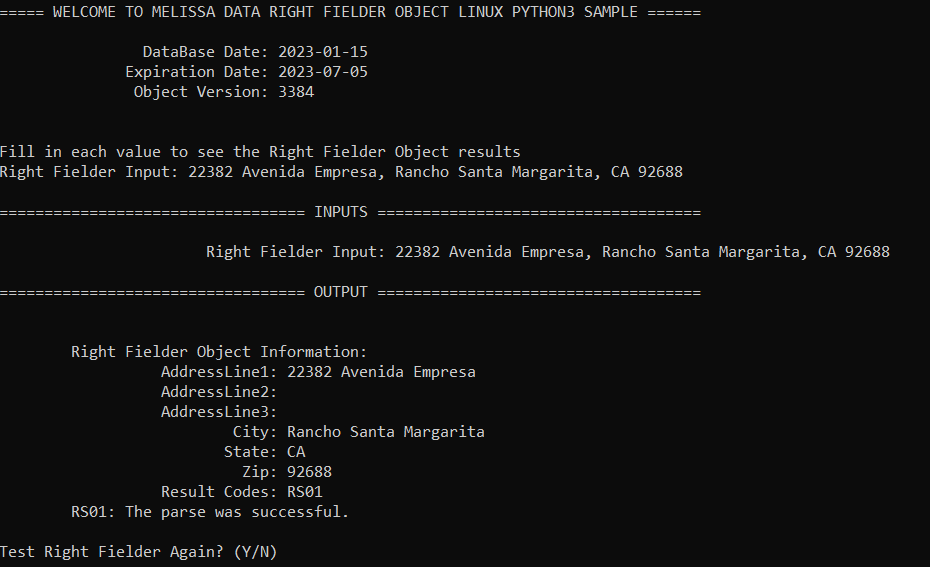
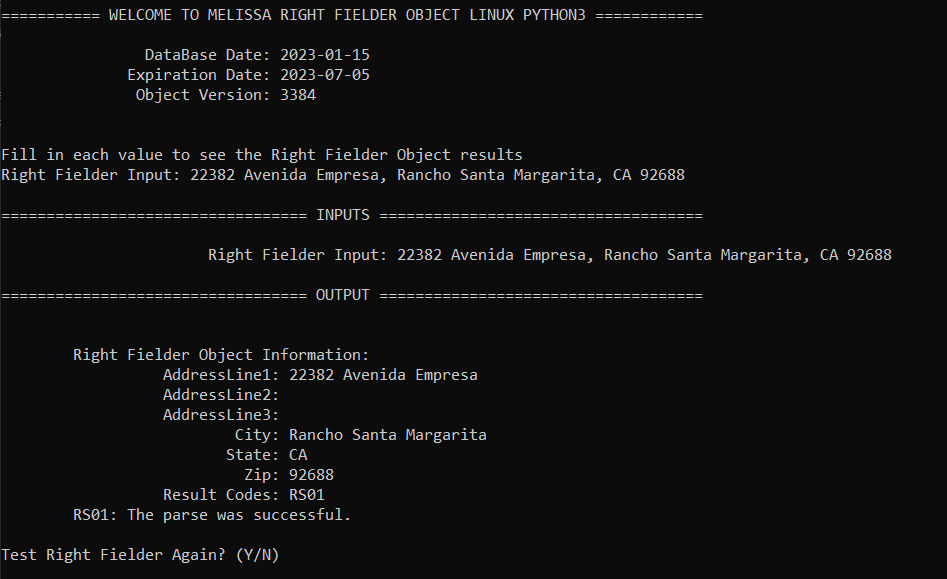
Commit Python3 code for Right Fielder Object with release notes

diff --git a/MelissaRightFielderObjectLinuxPython3/MelissaRightFielderObjectLinuxPython3.py b/MelissaRightFielderObjectLinuxPython3/MelissaRightFielderObjectLinuxPython3.py
@@ -31,7 +31,7 @@ class RightFielderObject:
         print(f"              Expiration Date: {self.md_right_fielder_obj.GetLicenseExpirationDate()}")
       
         """
-        This number should match with file properties of the Melissa Data Object binary file.
+        This number should match with file properties of the Melissa Object binary file.
         If TEST appears with the build number, there may be a license key issue.
         """
         print(f"               Object Version: {self.md_right_fielder_obj.GetBuildNumber()}\n")
@@ -40,7 +40,7 @@ class RightFielderObject:
     def execute_object_and_result_codes(self, data):
 
         """
-        These are the configuarble pieces of the right fielder object. We are setting what kind of information we want to be looked up
+        These are the configuarble pieces of the Right Fielder Object. We are setting what kind of information we want to be looked up
         SetUserPattern Method - Ex. Social Security Number
 
         mdRightFielder.SetUserPattern("SSN", "[0-9]{3}-[0-9]{2}-[0-9]{4}");
@@ -50,8 +50,8 @@ class RightFielderObject:
         
 
         """ 
-        ResultsCodes explain any issues right fielder object has with the object.
-        List of result codes for Right Fielder object
+        ResultsCodes explain any issues Right Fielder Object has with the object.
+        List of result codes for Right Fielder Object
         https://wiki.melissadata.com/?title=Result_Code_Details#RightFielder_Object
         """
 
@@ -79,7 +79,7 @@ def parse_arguments():
     return (license, test_input, data_path)
 
 def run_as_console(license, test_input, data_path):
-    print("\n\n===== WELCOME TO MELISSA DATA RIGHT FIELDER OBJECT LINUX PYTHON3 SAMPLE ======\n")
+    print("\n\n=========== WELCOME TO MELISSA RIGHT FIELDER OBJECT LINUX PYTHON3 ============\n")
 
     right_fielder_object = RightFielderObject(license, data_path)
 
@@ -176,7 +176,7 @@ def run_as_console(license, test_input, data_path):
             
               print("Invalid Response, please respond 'Y' or 'N'")
 
-    print("\n=============== THANK YOU FOR USING MELISSA DATA PYTHON3 OBJECT ==============\n")
+    print("\n================== THANK YOU FOR USING MELISSA PYTHON3 OBJECT ================\n")
     
 
 

diff --git a/MelissaRightFielderObjectLinuxPython3/mdRightFielder_pythoncode.py b/MelissaRightFielderObjectLinuxPython3/mdRightFielder_pythoncode.py
@@ -6,9 +6,9 @@ import os
 dir = os.getcwd()
 
 if (os.name == 'nt'):
-  lib = ctypes.CDLL(f'{dir}/MelissaDataRightFielderObjectWindowsPython3Sample/mdRightFielder.dll')
+  lib = ctypes.CDLL(f'{dir}/MelissaRightFielderObjectWindowsPython3/mdRightFielder.dll')
 else:
-  lib = ctypes.CDLL(f'{dir}/MelissaDataRightFielderObjectLinuxPython3Sample/libmdRightFielder.so')
+  lib = ctypes.CDLL(f'{dir}/MelissaRightFielderObjectLinuxPython3/libmdRightFielder.so')
 
 lib.mdRightFielderCreate.argtypes = []
 lib.mdRightFielderCreate.restype = c_void_p

diff --git a/README.md b/README.md
@@ -1,8 +1,12 @@
-# Melissa Data Right Fielder Object Linux Python3 Sample
+# Melissa - Right Fielder Object Linux Python3
 
 ## Purpose
 
-This is a sample of the Melissa Data Right Fielder Object using Python3
+This code showcases the Melissa Right Fielder Object using Python3
+
+Please feel free to copy or embed this code to your own project. Happy coding!
+
+For the latest Melissa Right Fielder Object release notes, please visit: https://releasenotes.melissa.com/on-premise-api/rightfielder-object/
 
 The console will ask the user for:
 
@@ -21,13 +25,13 @@ And return
 
 - Linux 64-bit Python 3.8.7
 - Ubuntu 20.04.05 LTS
-- Melissa data files for 2023.01
+- Melissa data files for 2023-01
 
 ## Required File(s) and Programs
 
 #### libmdRightFielder.so
 
-This is the c++ code of the Melissa Data Object.
+This is the c++ code of the Melissa Object.
 
 #### Data File(s)
 - mdRightFielder.cfg
@@ -92,7 +96,7 @@ Melissa Updater is a CLI application allowing the user to update their Melissa a
 	- It will handle all of the data download/path and .so file(s) for you. 
 2.  If you already have the latest DQS Release (ZIP), you can find the data file(s) and .so file(s) in there
 	- Use the location of where you copied/installed the data and update the "DataPath" variable in the bash script.
-	- Copy all the .so file(s) mentioned above into the `MelissaDataRightFielderObjectLinuxPython3Sample` project folder.
+	- Copy all the .so file(s) mentioned above into the `MelissaRightFielderObjectLinuxPython3` project folder.
 
 ----------------------------------------
 
@@ -100,17 +104,17 @@ Melissa Updater is a CLI application allowing the user to update their Melissa a
 
 To be able to run the bash script, you must first make it an executable using the command:
 
-`chmod +x MelissaDataRightFielderObjectLinuxPython3Sample.sh`
+`chmod +x MelissaRightFielderObjectLinuxPython3.sh`
 
 Then you need to add permissions to the build directory with the command:
 
-`chmod +rwx MelissaDataRightFielderObjectLinuxPython3Sample`
+`chmod +rwx MelissaRightFielderObjectLinuxPython3`
 
 As an indicator, the filename will change colors once it becomes an executable.
 
-You may also need to alter permissions for the python files. To do this navigate into the MelissaDataRightFielderObjectLinuxPython3Sample directory and run these commands: \
-`chmod +rx MelissaDataRightFielderObjectLinuxPython3Sample/MelissaDataRightFielderObjectLinuxPython3Sample.py` \
-`chmod +rx MelissaDataRightFielderObjectLinuxPython3Sample/mdRightFielder_pythoncode.py`
+You may also need to alter permissions for the python files. To do this navigate into the MelissaRightFielderObjectLinuxPython3 directory and run these commands: \
+`chmod +rx MelissaRightFielderObjectLinuxPython3/MelissaRightFielderObjectLinuxPython3.py` \
+`chmod +rx MelissaRightFielderObjectLinuxPython3/mdRightFielder_pythoncode.py`
 
 ## Run Bash Script
 
@@ -119,31 +123,31 @@ Parameters:
  	
   This is convenient when you want to get results for a specific right fielder input in one run instead of testing multiple right fielder inputs in interactive mode.  
 
-- -l or --license (optional): a license string to test the right fielder object  
+- -l or --license (optional): a license string to test the Right Fielder Object  
 - -q or --quiet (optional): add to the command if you do not want to get any console output from the Melissa Updater
 
 When you have modified the script to match your data location, let's run the script. There are two modes:
 - Interactive 
 
-	The script will prompt the user for the right fielder input, then use the provided right fielder input to test the Right Fielder object. For example:
+	The script will prompt the user for the right fielder input, then use the provided right fielder input to test the Right Fielder Object. For example:
 	```
-	$ ./MelissaDataRightFielderObjectLinuxPython3Sample.sh
+	$ ./MelissaRightFielderObjectLinuxPython3.sh
 	```
     For quiet mode:
     ```
-    $ ./MelissaDataRightFielderObjectLinuxPython3Sample.sh --quiet
+    $ ./MelissaRightFielderObjectLinuxPython3.sh --quiet
     ```
 - Command Line 
 
-	You can pass a right fielder input in ```--rfinput``` parameter and a license string in ```--license``` parameter to test right fielder object. For example:
+	You can pass a right fielder input in ```--rfinput``` parameter and a license string in ```--license``` parameter to test Right Fielder Object. For example:
 	```
-    $ ./MelissaDataRightFielderObjectLinuxPython3Sample.sh --rfinput "22382 Avenida Empresa, Rancho Santa Margarita, CA 92688"
-	$ ./MelissaDataRightFielderObjectLinuxPython3Sample.sh --rfinput "22382 Avenida Empresa, Rancho Santa Margarita, CA 92688" --license "<your_license_string>" 
+    $ ./MelissaRightFielderObjectLinuxPython3.sh --rfinput "22382 Avenida Empresa, Rancho Santa Margarita, CA 92688"
+	$ ./MelissaRightFielderObjectLinuxPython3.sh --rfinput "22382 Avenida Empresa, Rancho Santa Margarita, CA 92688" --license "<your_license_string>" 
     ```
 	For quiet mode:
     ```
-    $ ./MelissaDataRightFielderObjectLinuxPython3Sample.sh --rfinput "22382 Avenida Empresa, Rancho Santa Margarita, CA 92688" --quiet
-	$ ./MelissaDataRightFielderObjectLinuxPython3Sample.sh --rfinput "22382 Avenida Empresa, Rancho Santa Margarita, CA 92688" --license "<your_license_string>" --quiet
+    $ ./MelissaRightFielderObjectLinuxPython3.sh --rfinput "22382 Avenida Empresa, Rancho Santa Margarita, CA 92688" --quiet
+	$ ./MelissaRightFielderObjectLinuxPython3.sh --rfinput "22382 Avenida Empresa, Rancho Santa Margarita, CA 92688" --license "<your_license_string>" --quiet
     ```
 This is the expected output from a successful setup for interactive mode:
 
@@ -152,7 +156,7 @@ This is the expected output from a successful setup for interactive mode:
     
 ## Troubleshooting
 
-Troubleshooting for errors found while running your sample program.
+Troubleshooting for errors found while running your program.
 
 ### Errors:
 
@@ -167,7 +171,7 @@ Troubleshooting for errors found while running your sample program.
 ## Contact Us
 
 For free technical support, please call us at 800-MELISSA ext. 4
-(800-635-4772 ext. 4) or email us at tech@MelissaData.com.
+(800-635-4772 ext. 4) or email us at tech@melissa.com.
 
-To purchase this product, contact Melissa Data sales department at
+To purchase this product, contact Melissa sales department at
 800-MELISSA ext. 3 (800-635-4772 ext. 3).

diff --git a/LICENSE.md b/LICENSE.md
@@ -1,0 +1,21 @@
+MIT License
+
+Copyright (c) Melissa Data Corporation
+
+Permission is hereby granted, free of charge, to any person obtaining a copy
+of this software and associated documentation files (the "Software"), to deal
+in the Software without restriction, including without limitation the rights
+to use, copy, modify, merge, publish, distribute, sublicense, and/or sell
+copies of the Software, and to permit persons to whom the Software is
+furnished to do so, subject to the following conditions:
+
+The above copyright notice and this permission notice shall be included in all
+copies or substantial portions of the Software.
+
+THE SOFTWARE IS PROVIDED "AS IS", WITHOUT WARRANTY OF ANY KIND, EXPRESS OR
+IMPLIED, INCLUDING BUT NOT LIMITED TO THE WARRANTIES OF MERCHANTABILITY,
+FITNESS FOR A PARTICULAR PURPOSE AND NONINFRINGEMENT. IN NO EVENT SHALL THE
+AUTHORS OR COPYRIGHT HOLDERS BE LIABLE FOR ANY CLAIM, DAMAGES OR OTHER
+LIABILITY, WHETHER IN AN ACTION OF CONTRACT, TORT OR OTHERWISE, ARISING FROM,
+OUT OF OR IN CONNECTION WITH THE SOFTWARE OR THE USE OR OTHER DEALINGS IN THE
+SOFTWARE.
